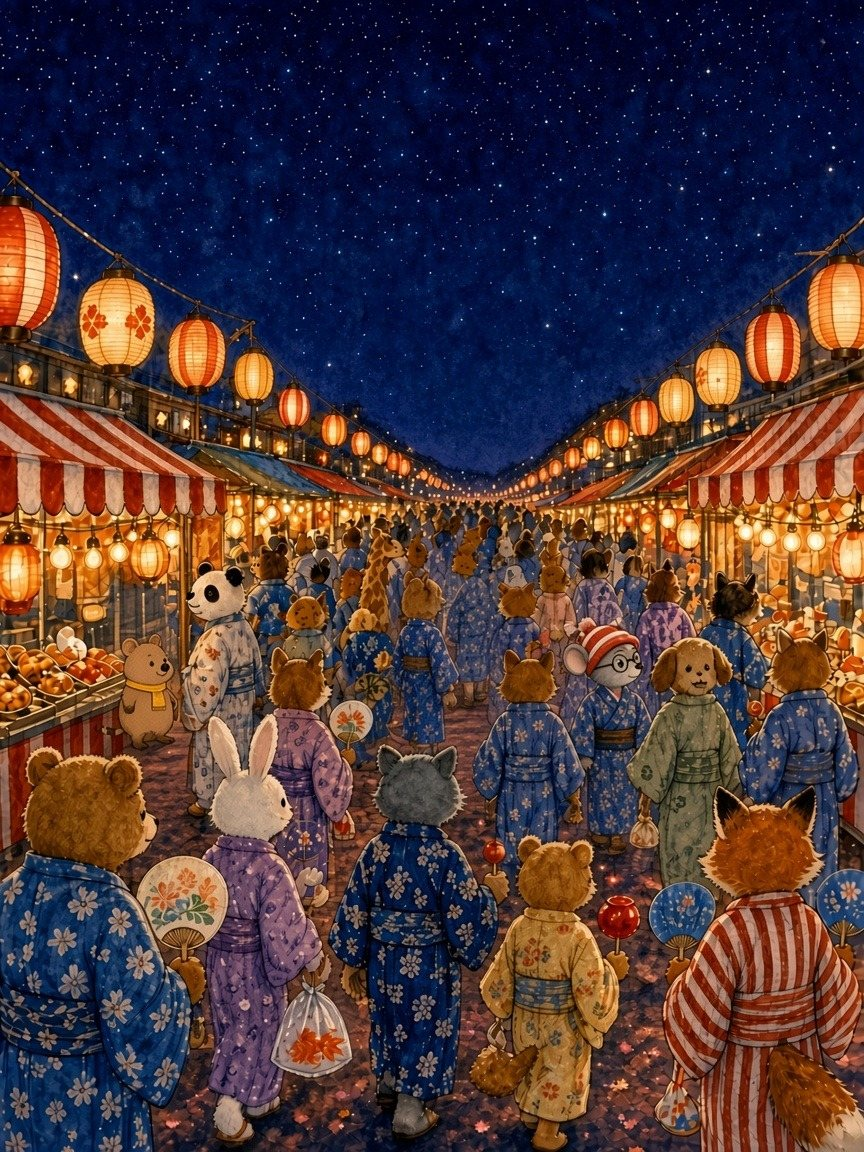
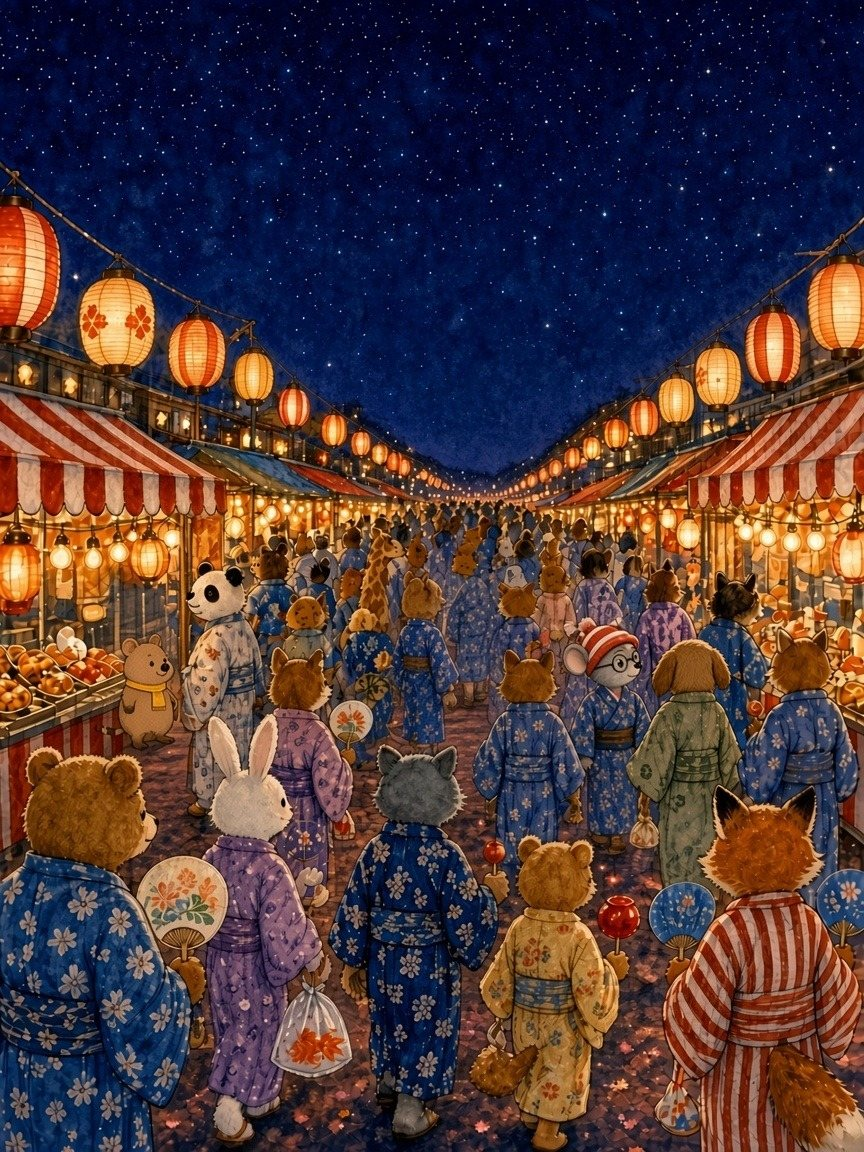
dayof: 當天 web app mockup (1116-0353)

Changed region(s): [[0.7188, 0.5312, 0.875, 0.7188]]

diff --git a/dayof/index.html b/dayof/index.html
@@ -13,13 +13,13 @@
 <meta property="og:image" content="https://guah123.github.io/kk1122-filters/dayof/assets/key-visual-og.jpg">
 <meta property="og:type" content="website">
 <link rel="icon" href="data:,">
-<script src="config.js?v=261116t"></script>
-<link rel="stylesheet" href="css/base.css?v=261116t">
-<link rel="stylesheet" href="css/where.css?v=261116t">
-<link rel="stylesheet" href="css/camera.css?v=261116t">
-<link rel="stylesheet" href="css/suitcase.css?v=261116t">
-<link rel="stylesheet" href="css/quiz.css?v=261116t">
-<link rel="stylesheet" href="css/finale.css?v=261116t">
+<script src="config.js?v=261116u"></script>
+<link rel="stylesheet" href="css/base.css?v=261116u">
+<link rel="stylesheet" href="css/where.css?v=261116u">
+<link rel="stylesheet" href="css/camera.css?v=261116u">
+<link rel="stylesheet" href="css/suitcase.css?v=261116u">
+<link rel="stylesheet" href="css/quiz.css?v=261116u">
+<link rel="stylesheet" href="css/finale.css?v=261116u">
 </head>
 <body>
 <div id="app"></div>
@@ -29,37 +29,37 @@
   </div>
 </noscript>
 
-<script src="js/core/icons.js?v=261116t"></script>
-<script src="js/core/flow.js?v=261116t"></script>
-<script src="js/core/api.js?v=261116t"></script>
-<script src="js/core/filterstack.js?v=261116t"></script>
+<script src="js/core/icons.js?v=261116u"></script>
+<script src="js/core/flow.js?v=261116u"></script>
+<script src="js/core/api.js?v=261116u"></script>
+<script src="js/core/filterstack.js?v=261116u"></script>
 
-<script src="js/camera/camera.js?v=261116t"></script>
-<script src="js/camera/rain.js?v=261116t"></script>
-<script src="js/camera/fisheye.js?v=261116t"></script>
+<script src="js/camera/camera.js?v=261116u"></script>
+<script src="js/camera/rain.js?v=261116u"></script>
+<script src="js/camera/fisheye.js?v=261116u"></script>
 
-<script src="js/where/chars.js?v=261116t"></script>
-<script src="js/where/engine.js?v=261116t"></script>
-<script src="js/where/scenes/park.js?v=261116t"></script>
-<script src="js/where/scenes/escalator.js?v=261116t"></script>
-<script src="js/where/scenes/bridge.js?v=261116t"></script>
-<script src="js/where/scenes/bookstore.js?v=261116t"></script>
-<script src="js/where/scenes/office.js?v=261116t"></script>
-<script src="js/where/scenes/fireworks.js?v=261116t"></script>
-<script src="js/where/scenes/newyork.js?v=261116t"></script>
+<script src="js/where/chars.js?v=261116u"></script>
+<script src="js/where/engine.js?v=261116u"></script>
+<script src="js/where/scenes/park.js?v=261116u"></script>
+<script src="js/where/scenes/escalator.js?v=261116u"></script>
+<script src="js/where/scenes/bridge.js?v=261116u"></script>
+<script src="js/where/scenes/bookstore.js?v=261116u"></script>
+<script src="js/where/scenes/office.js?v=261116u"></script>
+<script src="js/where/scenes/fireworks.js?v=261116u"></script>
+<script src="js/where/scenes/newyork.js?v=261116u"></script>
 
-<script src="js/pages/landing.js?v=261116t"></script>
-<script src="js/pages/form.js?v=261116t"></script>
-<script src="js/pages/rules.js?v=261116t"></script>
-<script src="js/pages/lyrics.js?v=261116t"></script>
-<script src="js/pages/where.js?v=261116t"></script>
-<script src="js/pages/qa.js?v=261116t"></script>
-<script src="js/pages/suitcase.js?v=261116t"></script>
-<script src="js/pages/yesno.js?v=261116t"></script>
-<script src="js/pages/photo.js?v=261116t"></script>
-<script src="js/pages/credits.js?v=261116t"></script>
-<script src="js/pages/egg.js?v=261116t"></script>
+<script src="js/pages/landing.js?v=261116u"></script>
+<script src="js/pages/form.js?v=261116u"></script>
+<script src="js/pages/rules.js?v=261116u"></script>
+<script src="js/pages/lyrics.js?v=261116u"></script>
+<script src="js/pages/where.js?v=261116u"></script>
+<script src="js/pages/qa.js?v=261116u"></script>
+<script src="js/pages/suitcase.js?v=261116u"></script>
+<script src="js/pages/yesno.js?v=261116u"></script>
+<script src="js/pages/photo.js?v=261116u"></script>
+<script src="js/pages/credits.js?v=261116u"></script>
+<script src="js/pages/egg.js?v=261116u"></script>
 
-<script src="js/core/app.js?v=261116t"></script>
+<script src="js/core/app.js?v=261116u"></script>
 </body>
 </html>

diff --git a/dayof/js/pages/credits.js b/dayof/js/pages/credits.js
@@ -43,11 +43,12 @@ DAYOF.registerPage = DAYOF.registerPage || function (t, m) { DAYOF._pages[t] = m
     var curL = el('div', 'cr-curtain l'), curR = el('div', 'cr-curtain r'), valance = el('div', 'cr-valance');
     var rollwrap = el('div', 'cr-rollwrap'), roll = el('div', 'cr-roll');
     var zone = el('div', 'cr-walkzone');
-    var skip = el('a', 'cr-skip', '略過'); skip.href = '#'; skip.setAttribute('role', 'button');
+    // (Kai t480u) no skip: credits always play in full; the continue button appears only after the roll ends
+    var cont = el('button', 'btn cr-continue', '繼續看看'); cont.type = 'button'; cont.hidden = true;
     rollwrap.appendChild(roll); roll.style.visibility = 'hidden';
     stage.appendChild(curL); stage.appendChild(curR); stage.appendChild(valance);
     stage.appendChild(rollwrap); stage.appendChild(zone);
-    page.appendChild(stage); page.appendChild(skip);
+    page.appendChild(stage); page.appendChild(cont);
 
     function later(fn, ms) { var t = setTimeout(fn, ms); timers.push(t); return t; }
 
@@ -170,12 +171,15 @@ DAYOF.registerPage = DAYOF.registerPage || function (t, m) { DAYOF._pages[t] = m
       roll.style.transform = 'translate3d(0,' + rollY.toFixed(1) + 'px,0)';
       if (rollY <= rollEnd - 20) finish();
     }
-    function finish() {
+    function finish() { // roll ended → reveal the continue button (no auto-advance, no skip)
       if (finished) return; finished = true;
+      cont.hidden = false; requestAnimationFrame(function () { cont.classList.add('show'); });
+    }
+    cont.addEventListener('click', function () {
+      if (cont.disabled) return; cont.disabled = true;
       page.classList.add('cr-out');
       later(function () { if (!cleaned) ctx.next(); }, 950);
-    }
-    skip.addEventListener('click', function (e) { e.preventDefault(); finish(); });
+    });
 
     // ---- curtain sequence ----
     walker.el.style.opacity = '0';

diff --git a/dayof/css/finale.css b/dayof/css/finale.css
@@ -138,3 +138,8 @@
 .cm-lightbox .cm-big { display: block; width: 90vw; max-width: 480px; max-height: 72vh; max-height: 72dvh; object-fit: contain; background: #fff; border-radius: 14px; padding: 6px; box-sizing: border-box; box-shadow: 0 10px 40px rgba(0,0,0,.35); }
 .cm-lightbox .cm-lbhint { color: #fff; font: 500 14px/1.5 var(--font, sans-serif); text-align: center; text-shadow: 0 1px 4px rgba(0,0,0,.5); }
 .cm-lightbox .cm-lbx { position: absolute; top: calc(env(safe-area-inset-top, 0px) + 12px); right: 12px; width: 40px; height: 40px; border: 0; border-radius: 50%; background: rgba(255,255,255,.85); color: var(--ink, #4A3C30); font-size: 24px; line-height: 40px; padding: 0; cursor: pointer; }
+
+/* (Kai t480u) continue button after the credits finish — replaces 略過 */
+.cr-continue{position:absolute;left:50%;bottom:calc(env(safe-area-inset-bottom,0px) + 28px);transform:translate(-50%,10px);opacity:0;z-index:30;transition:opacity .6s,transform .6s}
+.cr-continue.show{opacity:1;transform:translate(-50%,0)}
+.cr-skip{display:none!important}

diff --git a/dayof/admin.html b/dayof/admin.html
@@ -6,8 +6,8 @@
 <meta name="robots" content="noindex,nofollow">
 <meta name="referrer" content="no-referrer">
 <title>看看 後台</title>
-<link rel="stylesheet" href="css/base.css?v=261116t">
-<script src="config.js?v=261116t"></script>
+<link rel="stylesheet" href="css/base.css?v=261116u">
+<script src="config.js?v=261116u"></script>
 <style>
   :root{--fresh:#FFF1C9}
   html,body{height:auto;min-height:100%}
